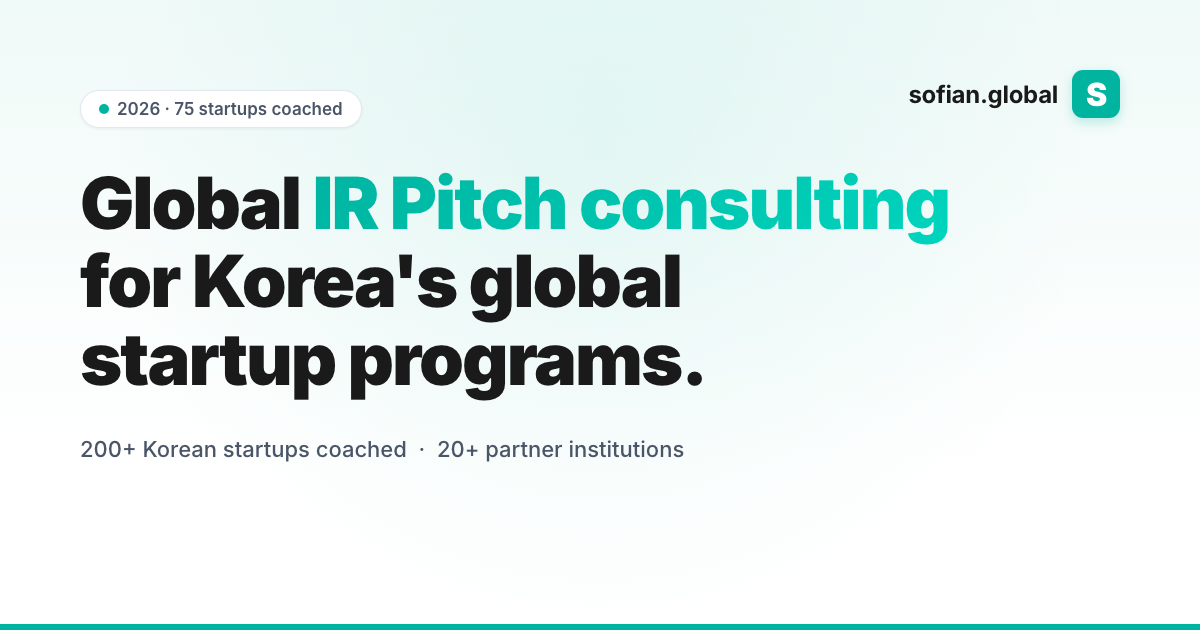
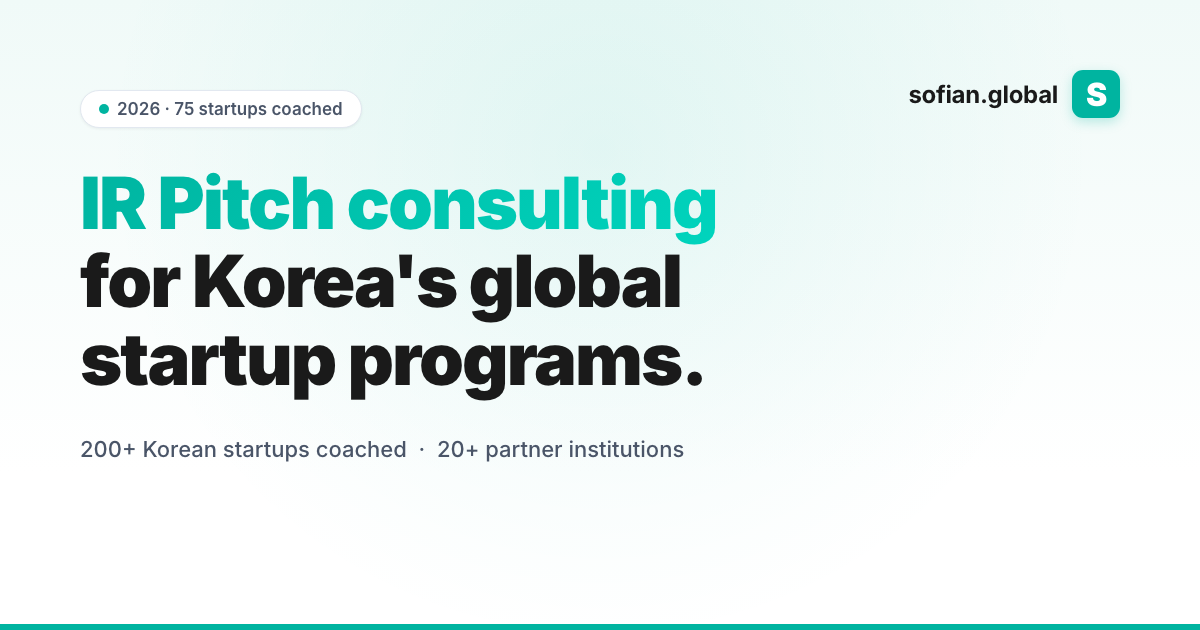
Drop redundant "Global" from H1 + meta + KR + OG image
H1 was "Global IR Pitch consulting for Korea's global startup programs"
— "global" twice was awkward. Service name is now just "IR Pitch
consulting" (the "global" in "Korea's global startup programs" already
covers the international scope).

- H1: "IR Pitch consulting for Korea's global startup programs."
- Meta title/og:title/twitter:title synced
- KR: drop "글로벌" from "글로벌 IR 피칭 컨설팅"
- OG image regenerated via Chrome headless screenshot

Changed region(s): [[0.0617, 0.2714, 0.8017, 0.3921]]

diff --git a/index.html b/index.html
@@ -3,14 +3,14 @@
 <head>
   <meta charset="UTF-8">
   <meta name="viewport" content="width=device-width, initial-scale=1.0">
-  <title>Sofian.global · Global IR Pitch consulting for Korea's global startup programs</title>
+  <title>Sofian.global · IR Pitch consulting for Korea's global startup programs</title>
   <meta name="description" content="1:1 IR consulting trusted by KISED, NIPA, Innopolis, KTO, KOCCA, GBSA and Korea's regional CCEIs. 200+ Korean startups consulted since 2019.">
-  <meta property="og:title" content="Sofian.global · Global IR Pitch consulting for Korea's global startup programs">
+  <meta property="og:title" content="Sofian.global · IR Pitch consulting for Korea's global startup programs">
   <meta property="og:description" content="1:1 IR consulting trusted by KISED, NIPA, Innopolis, KTO, KOCCA, GBSA and Korea's regional CCEIs. 200+ Korean startups consulted since 2019.">
   <meta property="og:type" content="website">
   <meta property="og:image" content="og-image.png">
   <meta name="twitter:card" content="summary_large_image">
-  <meta name="twitter:title" content="Sofian.global · Global IR Pitch consulting for Korea's global startup programs">
+  <meta name="twitter:title" content="Sofian.global · IR Pitch consulting for Korea's global startup programs">
   <meta name="twitter:description" content="1:1 IR consulting trusted by KISED, NIPA, Innopolis, KTO, KOCCA, GBSA and Korea's regional CCEIs. 200+ Korean startups consulted since 2019.">
   <meta name="twitter:image" content="og-image.png">
   <link rel="icon" type="image/svg+xml" href="favicon.svg">
@@ -1534,20 +1534,57 @@
 
     @media (max-width: 768px) {
       nav { padding: 0 16px; }
-      .nav-links { display: none; }
-      .nav-links.open {
+      .nav-links {
         display: flex;
         flex-direction: column;
         position: absolute;
         top: 64px;
         left: 0;
         right: 0;
-        background: var(--bg);
-        padding: 20px 24px;
-        gap: 16px;
+        background: rgba(255,255,255,0.97);
+        backdrop-filter: blur(12px);
+        -webkit-backdrop-filter: blur(12px);
+        padding: 22px 24px;
+        gap: 18px;
         border-bottom: 1px solid var(--border);
+        box-shadow: 0 8px 20px rgba(0,0,0,0.06);
+        opacity: 0;
+        transform: translateY(-10px);
+        visibility: hidden;
+        pointer-events: none;
+        transition: opacity 0.28s cubic-bezier(0.4, 0, 0.2, 1),
+                    transform 0.28s cubic-bezier(0.4, 0, 0.2, 1),
+                    visibility 0s linear 0.28s;
       }
-      .nav-mobile-toggle { display: block; }
+      .nav-links.open {
+        opacity: 1;
+        transform: translateY(0);
+        visibility: visible;
+        pointer-events: auto;
+        transition-delay: 0s;
+      }
+      .nav-links li {
+        opacity: 0;
+        transform: translateY(-6px);
+        transition: opacity 0.3s ease, transform 0.3s ease;
+      }
+      .nav-links.open li {
+        opacity: 1;
+        transform: translateY(0);
+      }
+      .nav-links.open li:nth-child(1) { transition-delay: 0.05s; }
+      .nav-links.open li:nth-child(2) { transition-delay: 0.08s; }
+      .nav-links.open li:nth-child(3) { transition-delay: 0.11s; }
+      .nav-links.open li:nth-child(4) { transition-delay: 0.14s; }
+      .nav-links.open li:nth-child(5) { transition-delay: 0.17s; }
+      .nav-links.open li:nth-child(6) { transition-delay: 0.20s; }
+      .nav-mobile-toggle {
+        display: block;
+        transition: transform 0.25s ease;
+      }
+      .nav-mobile-toggle.is-open {
+        transform: rotate(90deg);
+      }
       section { padding: 64px 16px; }
       .hero { padding-top: 110px; padding-bottom: 56px; }
       .hero h1 { letter-spacing: -1px; }
@@ -1594,7 +1631,7 @@
         <button class="lang-btn active" onclick="setLang('en')" id="langEn"><span class="flag">&#127468;&#127463;</span> EN</button>
         <button class="lang-btn" onclick="setLang('ko')" id="langKo"><span class="flag">&#127472;&#127479;</span> KR</button>
       </div>
-      <button class="nav-mobile-toggle" onclick="document.getElementById('navLinks').classList.toggle('open')" aria-label="Toggle menu">&#9776;</button>
+      <button class="nav-mobile-toggle" onclick="var n=document.getElementById('navLinks');n.classList.toggle('open');this.classList.toggle('is-open');" aria-label="Toggle menu">&#9776;</button>
     </div>
   </nav>
 
@@ -1605,7 +1642,7 @@
         <span class="pulse-dot" style="background: var(--teal);"></span>
         <span data-i18n="hero.eyebrow">2026 &middot; 75 startups coached</span>
       </div>
-      <h1 data-i18n="hero.title">Global <em>IR Pitch consulting</em> for Korea's global startup programs.</h1>
+      <h1 data-i18n="hero.title"><em>IR Pitch consulting</em> for Korea's global startup programs.</h1>
       <p class="subtitle" data-i18n="hero.subtitle">Supporting Korean accelerators that send startups abroad. I provide the 1:1 IR pitch consulting. Each session prepares one founder for the next demo day or investor meeting.</p>
       <a href="https://calendly.com/depitchsofian/global-ir-consulting" target="_blank" rel="noopener" class="btn btn-primary btn-large">
         <span data-i18n="hero.cta">Book a discovery call</span>
@@ -2091,7 +2128,7 @@
 
       // Hero
       'hero.eyebrow': '2026 &middot; 75개 스타트업 코칭 진행',
-      'hero.title': '한국 스타트업의 해외 진출을 위한 <em>글로벌 IR 피칭 컨설팅</em>.',
+      'hero.title': '한국 스타트업의 해외 진출을 위한 <em>IR 피칭 컨설팅</em>.',
       'hero.subtitle': '해외 진출을 추진하는 한국 액셀러레이터 프로그램을 지원합니다. 저는 1:1 맞춤형 IR 피칭 컨설팅을 담당하며, 각 세션은 다음 데모데이 또는 투자자 미팅을 준비합니다.',
       'hero.cta': '미팅 신청하기',
       'hero.kakao': '또는 카카오톡으로 문의',
@@ -2246,6 +2283,21 @@
       var saved = null;
       try { saved = localStorage.getItem('lang'); } catch (e) {}
       if (saved === 'ko') setLang('ko');
+    })();
+
+    // Mobile nav: auto-close menu when a link is clicked
+    (function() {
+      var navLinks = document.getElementById('navLinks');
+      var toggle = document.querySelector('.nav-mobile-toggle');
+      if (!navLinks) return;
+      navLinks.querySelectorAll('a').forEach(function(a) {
+        a.addEventListener('click', function() {
+          if (navLinks.classList.contains('open')) {
+            navLinks.classList.remove('open');
+            if (toggle) toggle.classList.remove('is-open');
+          }
+        });
+      });
     })();
   </script>
 